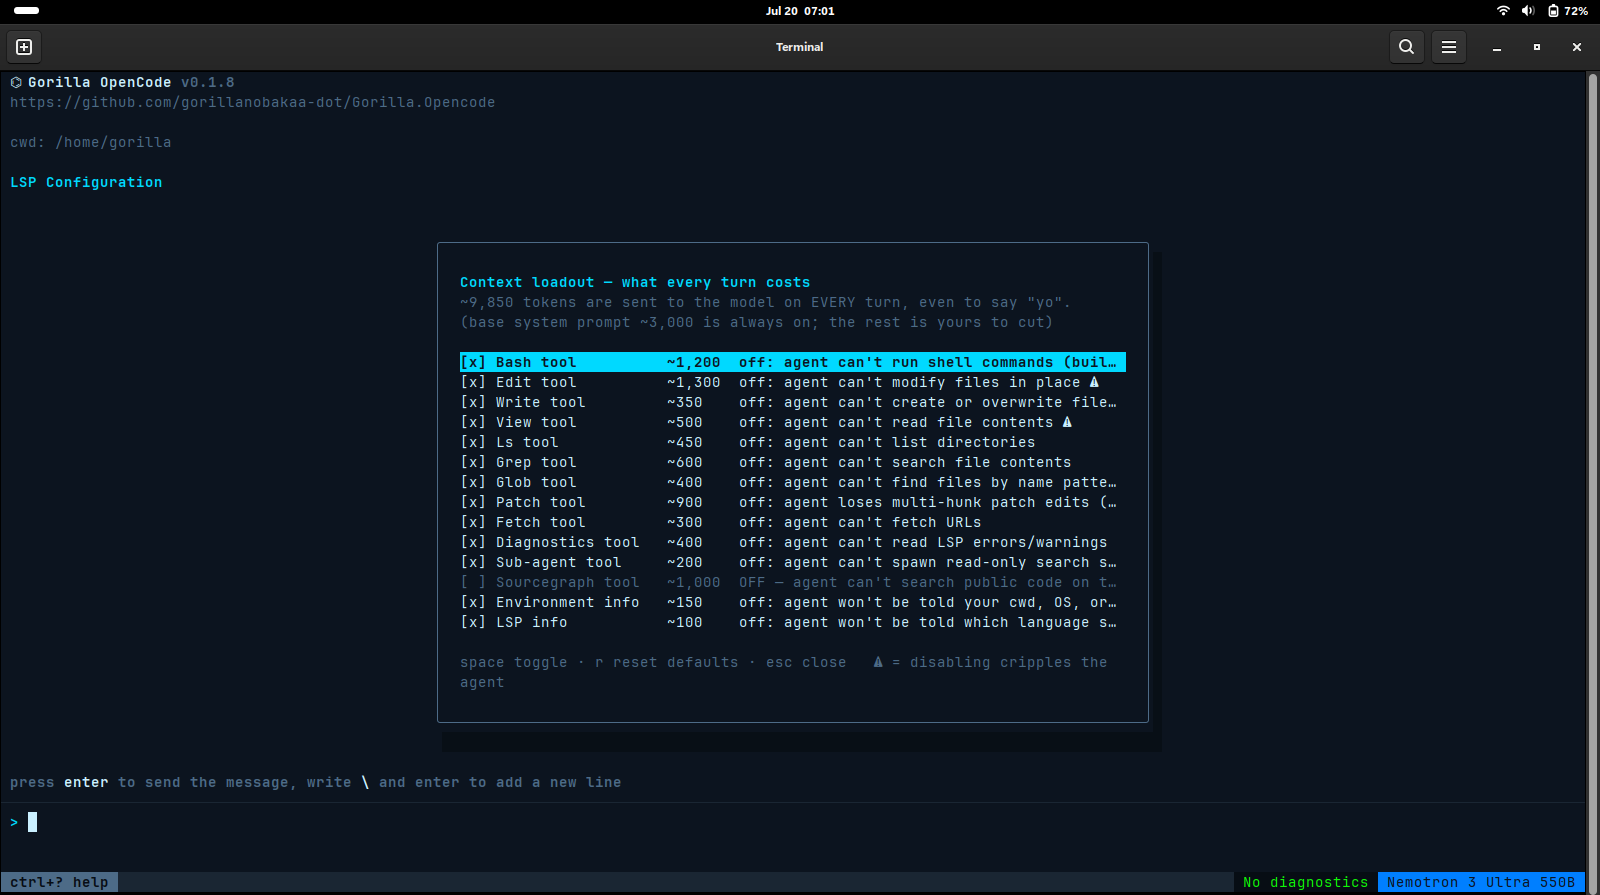
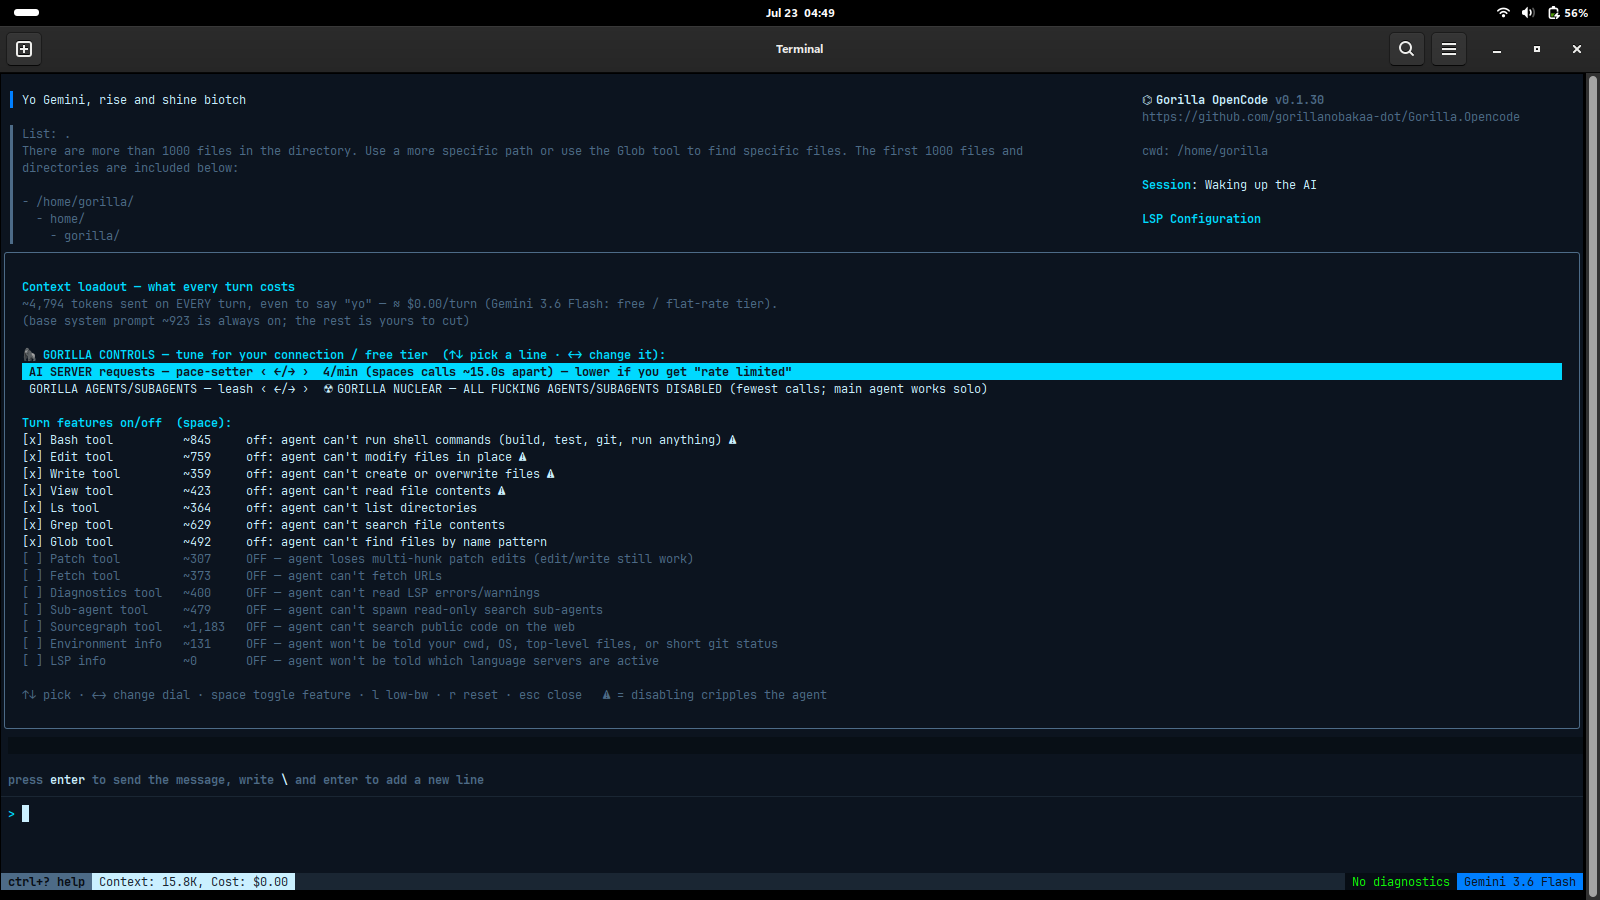
docs: update /context screenshot + captions for v0.1.30 Gorilla controls
The /context menu was redesigned this release (arrow-key GORILLA CONTROLS dials:
AI-server request pace-setter + agents/subagents leash with the Nuclear Option,
plus per-turn dollar cost). Refresh 02-context-loadout.png to the v0.1.30 menu
and update the README / SCREENSHOTS captions to match.

diff --git a/README.md b/README.md
@@ -172,13 +172,16 @@ message — smaller is leaner and faster.
 
 ![Reaching the Google models with the arrow key](docs/screenshots/gallery/15-09-12-23.png)
 
-**The `/context` menu — see exactly what every message costs.** It lists
-everything sent to the model each turn with its token cost, and lets you
-switch any of it off. The `⚠` marks things the assistant can't work
-without. Turning off the big ones (like "Environment info") drops the
-number immediately.
+**The `/context` menu — see (and control) exactly what every message costs.**
+The top **🦍 GORILLA CONTROLS** section holds two live dials you drive with the
+arrow keys: an **AI-server request pace-setter** (requests/min, to glide under
+free-tier limits) and a **GORILLA AGENTS/SUBAGENTS leash** (cap helper agents,
+right down to the ☢ Nuclear Option). Below, every tool and prompt block is a
+switch, each with its **token *and* dollar cost**; the `⚠` marks what the
+assistant can't work without. Turning off the big ones drops the number — and the
+bill — immediately.
 
-![The context loadout menu](docs/screenshots/02-context-loadout.png)
+![The context loadout menu with the Gorilla controls](docs/screenshots/02-context-loadout.png)
 
 More full-resolution screenshots and captions:
 **[docs/SCREENSHOTS.md](docs/SCREENSHOTS.md)** ·

diff --git a/docs/SCREENSHOTS.md b/docs/SCREENSHOTS.md
@@ -26,12 +26,17 @@ shows you're on the Gemini page. Bottom-left shows the context down to
 
 ![Gemini model page](screenshots/gallery/15-09-12-23.png)
 
-## The context loadout — every token accounted for
+## The context loadout & Gorilla controls — every token (and dollar) accounted for
 
-`/context` shows exactly what's sent to the model every turn and lets you
-switch any of it off. See the [gallery](screenshots/gallery/) for the
-menu, and the [GUIDE](GUIDE.md#the-context-loadout-context--your-token-budget)
-for how to use it.
+`/context` shows exactly what's sent to the model every turn — with its **token
+*and* dollar cost** — and lets you switch any of it off. The top **🦍 GORILLA
+CONTROLS** section adds two arrow-key dials: an **AI-server request pace-setter**
+(requests/min, to stay under free-tier limits) and a **GORILLA AGENTS/SUBAGENTS
+leash** (cap helper agents down to the ☢ Nuclear Option). Full write-up:
+[CONTROL-AND-COST.md](CONTROL-AND-COST.md); how-to in the
+[GUIDE](GUIDE.md#the-context-loadout-context--your-token-budget).
+
+![The context loadout with Gorilla controls](screenshots/02-context-loadout.png)
 
 ---
 